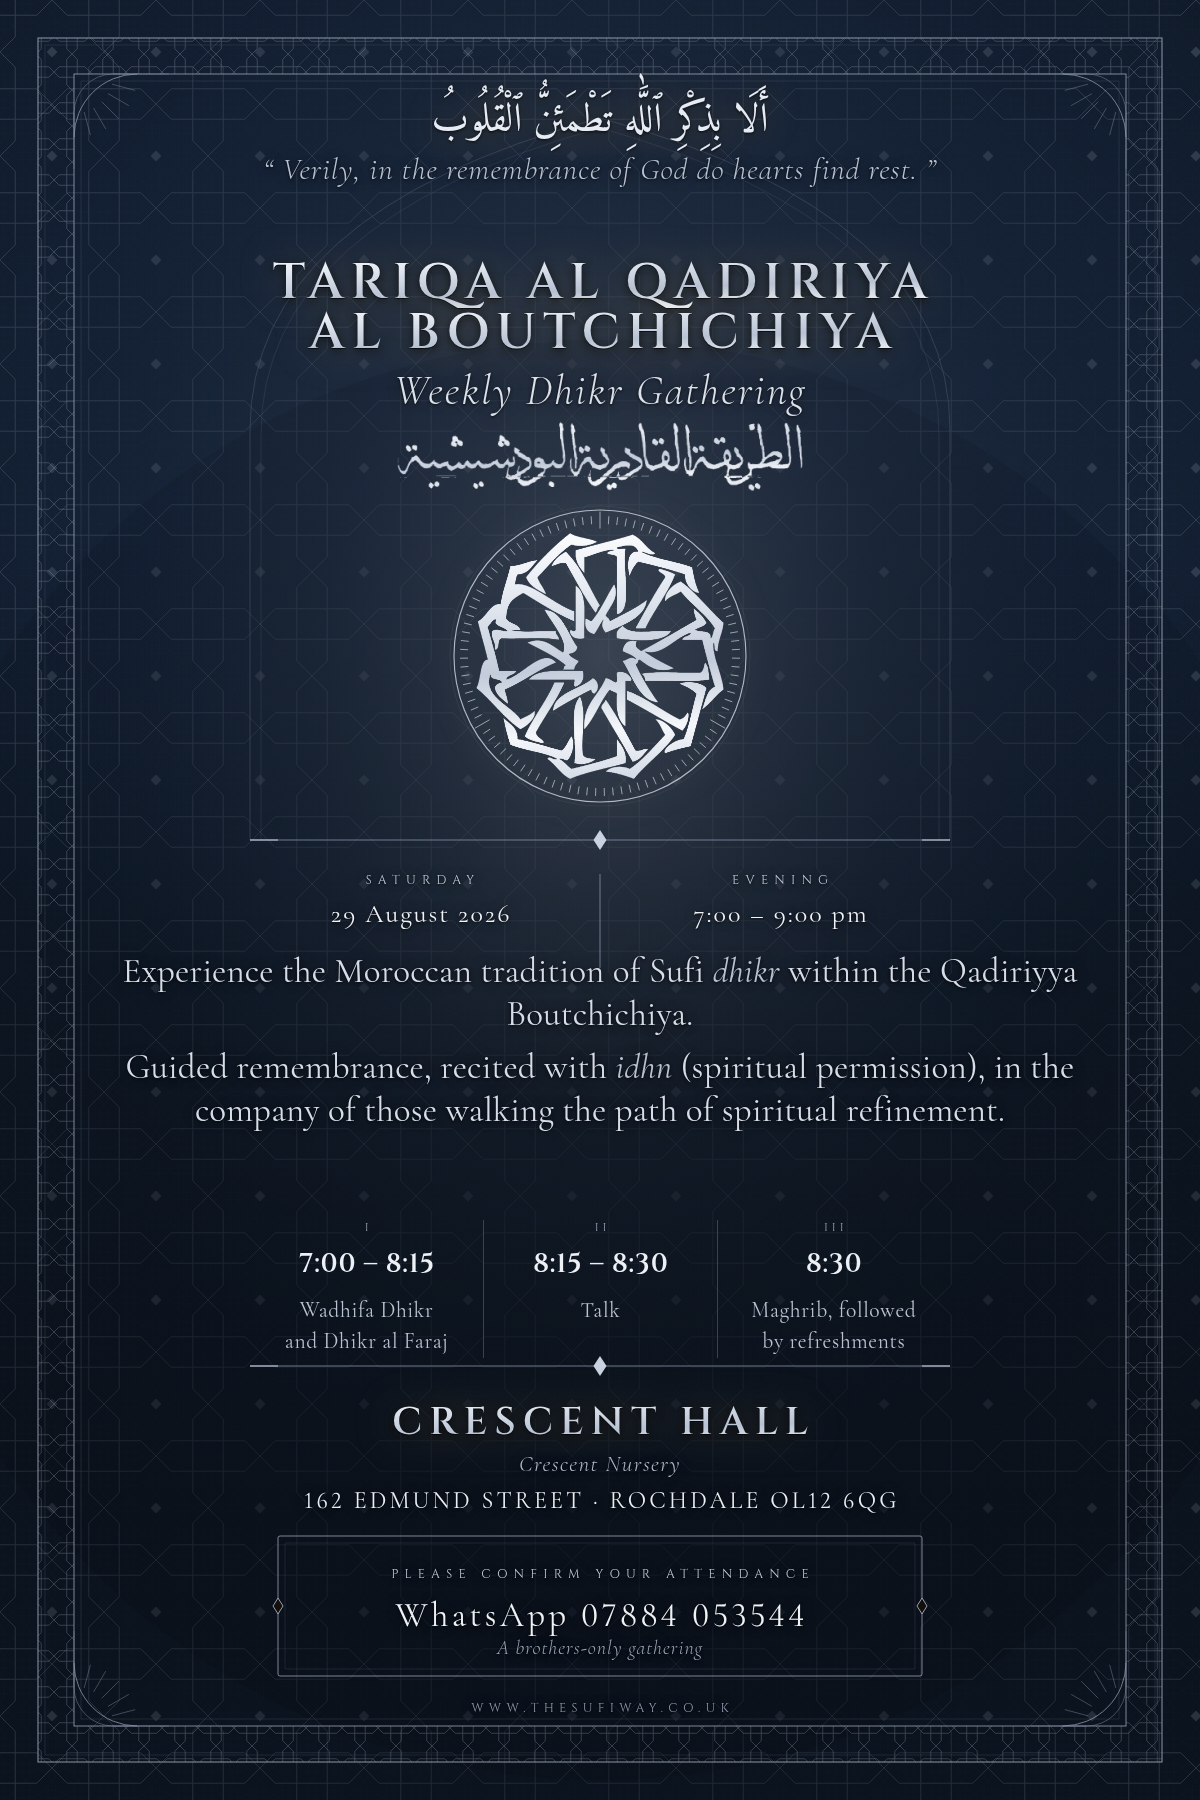
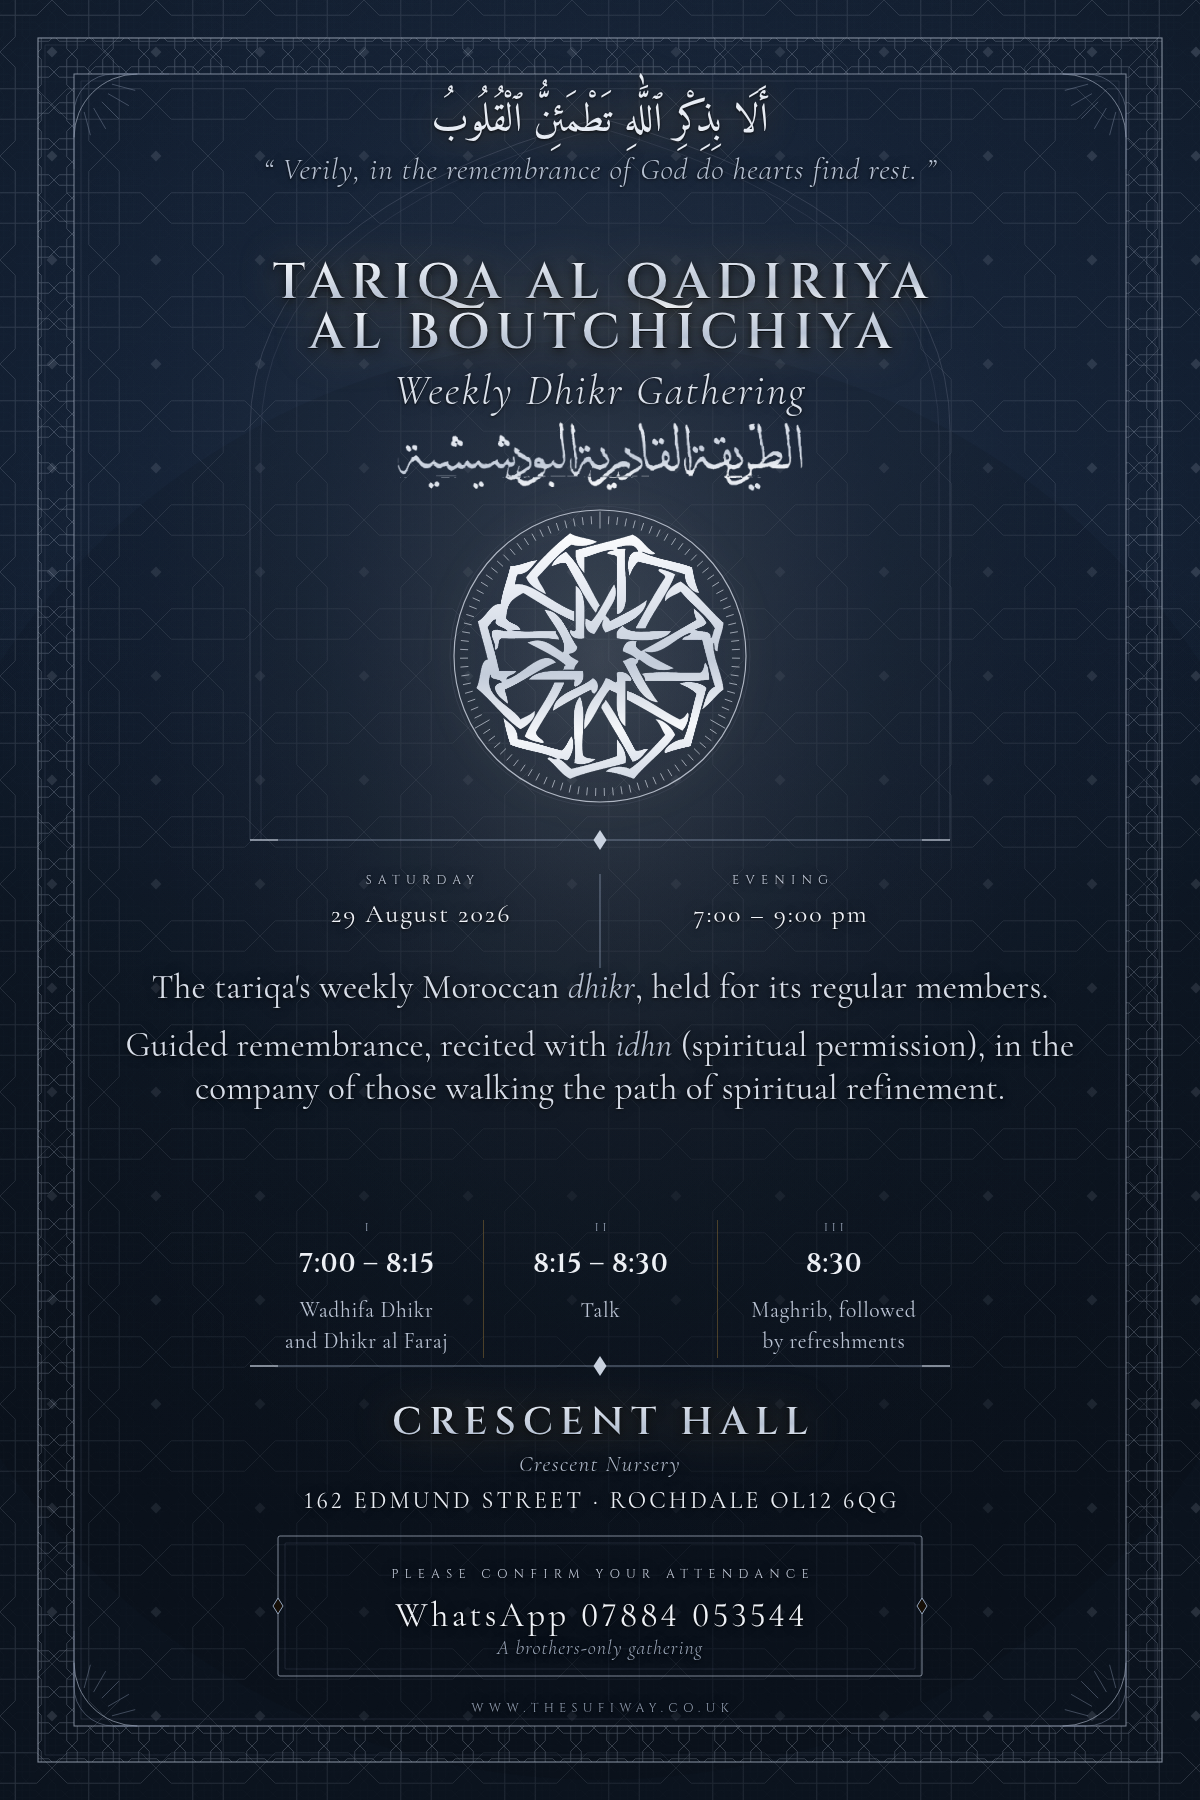
Sandstone: richer background, bold key text; update body copy for members
Livens up Sandstone & Gold further: deepened the background into real
sunset colour (ochre to burnt terracotta) and raised the pattern/dado
opacities now that the gradient no longer bands, plus richer amber-gold
tokens throughout.

Adds genuine Cormorant Garamond SemiBold/Bold faces (600, 700, 600-italic)
to the shared FONTS block rather than relying on synthetic bold, and makes
font-weight a palette key (body/val/pd/addr/wa) so Sandstone reads bold
while every other colourway is untouched (default weight 400).

Rewrites the leaflet's body copy, across every colourway: "Experience the
Moroccan tradition..." read as an invitation for newcomers; it now reads
as a standing notice for the tariqa's regular members instead.

Claude-Session: https://claude.ai/code/session_01W3RXmfEcLks2fUKiCDKANu

Changed region(s): [[0.1233, 0.5289, 0.8942, 0.6222]]

diff --git a/design/weekly-gathering/final/final.py b/design/weekly-gathering/final/final.py
@@ -136,22 +136,22 @@ html,body{{background:#000}}
   letter-spacing:.045em;color:{pal['t2']}}}
 .lab{{font-family:Cinzel,serif;font-weight:400;font-size:12.5px;letter-spacing:.5em;
   text-indent:.5em;color:{pal['lab']}}}
-.val{{font-family:Cormorant,serif;font-weight:400;font-size:26px;letter-spacing:.075em;
+.val{{font-family:Cormorant,serif;font-weight:{pal.get('val_weight',400)};font-size:26px;letter-spacing:.075em;
   text-indent:.075em;color:{pal['val']}}}
-.body{{font-family:Cormorant,serif;font-weight:400;font-size:35px;line-height:1.24;
+.body{{font-family:Cormorant,serif;font-weight:{pal.get('body_weight',400)};font-size:35px;line-height:1.24;
   letter-spacing:.005em;color:{pal['body']}}}
 .body em{{font-style:italic;color:{pal['gloss']}}}
 .pt{{font-variant-numeric:lining-nums;font-family:Cinzel,serif;font-weight:600;font-size:27px;letter-spacing:.03em;
   text-indent:.03em;color:{pal['pt']}}}
-.pd{{font-family:Cormorant,serif;font-weight:400;font-size:21.5px;line-height:1.46;
+.pd{{font-family:Cormorant,serif;font-weight:{pal.get('pd_weight',400)};font-size:21.5px;line-height:1.46;
   letter-spacing:.03em;color:{pal['pd']}}}
 .rn{{font-family:Cinzel,serif;font-size:11.5px;letter-spacing:.34em;text-indent:.34em;color:{pal['rn']}}}
 .venue{{font-family:Cinzel,serif;font-weight:600;font-size:39px;letter-spacing:.18em;text-indent:.18em}}
 .vsub{{font-family:Cormorant,serif;font-style:italic;font-weight:300;font-size:23px;
   letter-spacing:.06em;color:{pal['vsub']}}}
-.addr{{font-variant-numeric:lining-nums;font-feature-settings:'lnum' 1;font-family:Cormorant,serif;font-weight:400;font-size:24px;letter-spacing:.13em;
+.addr{{font-variant-numeric:lining-nums;font-feature-settings:'lnum' 1;font-family:Cormorant,serif;font-weight:{pal.get('addr_weight',400)};font-size:24px;letter-spacing:.13em;
   text-indent:.13em;color:{pal['addr']};text-transform:uppercase}}
-.wa{{font-variant-numeric:lining-nums;font-feature-settings:'lnum' 1;font-family:Cormorant,serif;font-weight:400;font-size:34.5px;letter-spacing:.1em;
+.wa{{font-variant-numeric:lining-nums;font-feature-settings:'lnum' 1;font-family:Cormorant,serif;font-weight:{pal.get('wa_weight',400)};font-size:34.5px;letter-spacing:.1em;
   text-indent:.1em;color:{pal['wa']}}}
 .note{{font-family:Cormorant,serif;font-style:italic;font-weight:300;font-size:20px;
   letter-spacing:.05em;color:{pal['note']}}}
@@ -235,10 +235,10 @@ def bottom_html():
 <div class="at lab" style="top:{v.ARCH_BASE+32}px;left:{CX+10}px;width:340px">EVENING</div>
 <div class="at val" style="top:{v.ARCH_BASE+58}px;left:{CX+10}px;width:340px">7:00 – 9:00 pm</div>
 
-<div class="at body" style="top:950px;left:{CX-500}px;width:1000px">
-Experience the Moroccan tradition of Sufi <em>dhikr</em> within the Qadiriyya Boutchichiya.
+<div class="at body" style="top:966px;left:{CX-500}px;width:1000px">
+The tariqa's weekly Moroccan <em>dhikr</em>, held for its regular members.
 </div>
-<div class="at body" style="top:1046px;left:{CX-500}px;width:1000px">
+<div class="at body" style="top:1024px;left:{CX-500}px;width:1000px">
 Guided remembrance, recited with <em>idhn</em> (spiritual permission), in the company of
 those walking the path of spiritual refinement.
 </div>
@@ -366,12 +366,13 @@ EARTHY.update(
 SANDSTONE = dict(DEFAULT_PALETTE)
 SANDSTONE.update(
     name="Sandstone & Gold", pattern="zellij",
-    tile_small_op=0.22, tile_big_op=0.20, band_op=0.30,
-    # a properly saturated clay-and-terracotta ground, not a washed-out sand —
-    # the top stays warm ochre, the base deepens into real burnt terracotta.
-    bg1="radial-gradient(160% 100% at 50% 20%, #F1DBA8 0%, #ECC983 55%, #E2AD63 85%, #D89A4E 100%)",
-    bg2="radial-gradient(140% 90% at 50% 100%, #E2AD63 0%, #D3924C 50%, #BD7A3B 100%)",
-    print_bg="#ECC983",
+    tile_small_op=0.30, tile_big_op=0.27, band_op=0.40,
+    body_weight=600, val_weight=600, pd_weight=600, addr_weight=600, wa_weight=600,
+    # a properly saturated clay-and-terracotta ground, pushed further into real
+    # sunset colour — warm ochre at top through to a deep, live burnt terracotta.
+    bg1="radial-gradient(160% 100% at 50% 20%, #F4DEA0 0%, #EEC876 60%, #E0A455 88%, #D18F42 100%)",
+    bg2="radial-gradient(140% 90% at 50% 100%, #E0A455 0%, #CC8740 50%, #A8672E 100%)",
+    print_bg="#EEC876",
     # richer, warmer antique amber-gold — more saturated than a muted olive-bronze —
     # for the hairlines, frame and pattern.
     hair1="#B8862E", hair2="#9C6F27", hair3="#7E5A20", hair4="#63451A", hair5="#4C3414",
@@ -380,7 +381,7 @@ SANDSTONE.update(
     dot="#8A5F22", fill_lit="#B8862E", stroke_node="#7E5A20",
     rule="#8A5F22", rule_lit="#B8862E",
     zh="#9C6F27", zf="#7E5A20", zstud="#9C6F27", zb="#8A5F22",
-    scrim="230,180,110", scrim_mult=0.20, halo_mult=0.30, ground_op=0.0,
+    scrim="230,180,110", scrim_mult=0.24, halo_mult=0.38, ground_op=0.0,
     gold_grad="linear-gradient(178deg,#C1922F 0%,#9C6F27 26%,#734D1B 58%,#B8862E 82%,#8A5F22 100%)",
     mark_grad="linear-gradient(176deg,#C1922F 0%,#A97D2B 22%,#8A5F22 54%,#B8862E 78%,#9C6F27 100%)",
     ayah="#8A5F22", gloss="#9C6F27", t2="#8A5F22", lab="#5C3E17", val="#3A210D",

diff --git a/design/weekly-gathering/variants/variants.py b/design/weekly-gathering/variants/variants.py
@@ -133,8 +133,11 @@ FONTS = "\n".join([
     face("Cormorant", "CormorantGaramond-300.woff2", "300"),
     face("Cormorant", "CormorantGaramond-400.woff2", "400"),
     face("Cormorant", "CormorantGaramond-500.woff2", "500"),
+    face("Cormorant", "CormorantGaramond-600.woff2", "600"),
+    face("Cormorant", "CormorantGaramond-700.woff2", "700"),
     face("Cormorant", "CormorantGaramond-300-italic.woff2", "300", "italic"),
     face("Cormorant", "CormorantGaramond-400-italic.woff2", "400", "italic"),
+    face("Cormorant", "CormorantGaramond-600-italic.woff2", "600", "italic"),
     face("Marcellus", "Marcellus-400.woff2", "400"),
     face("Amiri", "Amiri-Regular-400.woff2", "400"),
 ])

diff --git a/design/weekly-gathering/final/README.md b/design/weekly-gathering/final/README.md
@@ -6,6 +6,13 @@ silhouette used to sit. Everything else (ayah, title, Arabic wordmark, date,
 programme, venue, WhatsApp, footer) is unchanged from the layout that was
 approved.
 
+The body copy now reads as a standing notice for the tariqa's regular
+members, not an invitation for newcomers to "experience" the practice:
+*"The tariqa's weekly Moroccan dhikr, held for its regular members. Guided
+remembrance, recited with idhn (spiritual permission), in the company of
+those walking the path of spiritual refinement."* — shared by every
+colourway, `bottom_html()` in `final.py`.
+
 | File | Palette | Pattern |
 |---|---|---|
 | `final-gold.png` | Lamplight Gold — the original warm umber and gold | Khatim star-and-cross |
@@ -73,6 +80,22 @@ colourways changed):
   equivalents. `halo_mult` and `scrim_mult` were added the same way, to turn
   down (not remove) the warm glow and the pattern-hiding scrim to the much
   smaller doses a pale ground needs.
+
+Sandstone was then pushed further on the same two complaints — "looks a bit
+dull" and "make the writing easier to read":
+
+- The background gradient was deepened into real sunset colour (warm ochre
+  through to burnt terracotta, not sand-and-beige) and the pattern/dado
+  opacities raised, now that the gradient itself no longer bands. The gold
+  tokens moved from a muted olive-bronze to a properly saturated amber.
+- The body paragraph, the date/time values, the programme description, the
+  address and the WhatsApp number all render **bold** on Sandstone. Weight
+  is a palette key too (`body_weight`, `val_weight`, `pd_weight`,
+  `addr_weight`, `wa_weight`, default 400 = unchanged for every other
+  colourway) — genuine Cormorant Garamond SemiBold/Bold faces were added to
+  the shared `FONTS` block in `variants.py` rather than left to the
+  browser's synthetic bold, so the letterforms stay properly drawn at
+  weight.
 
 ## Regenerating
 
